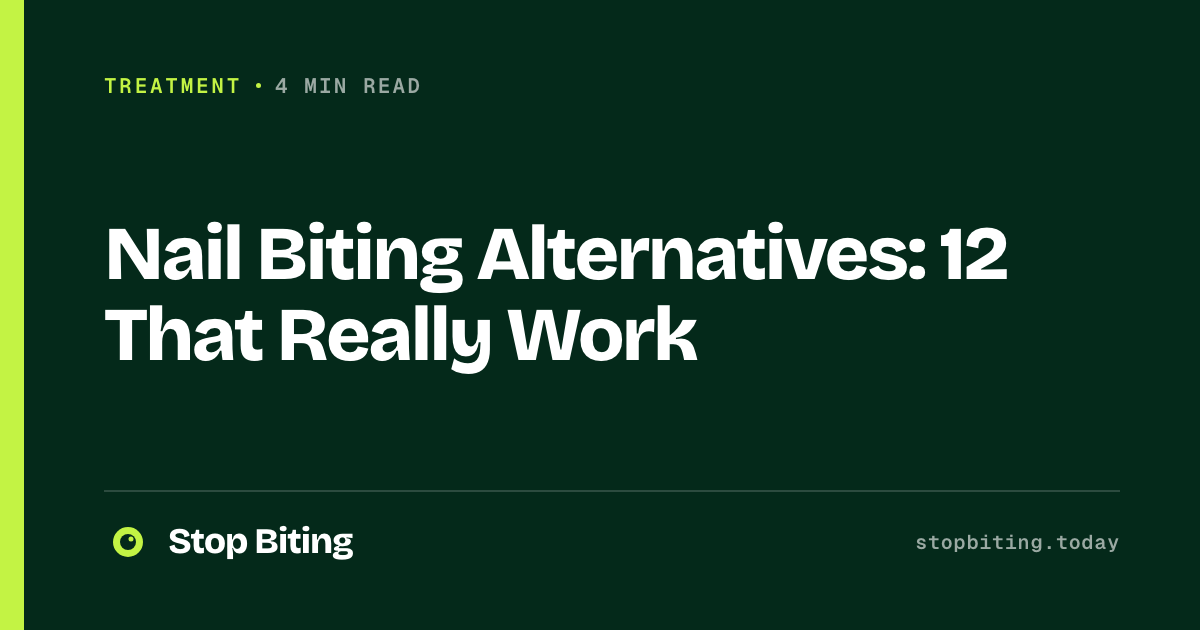
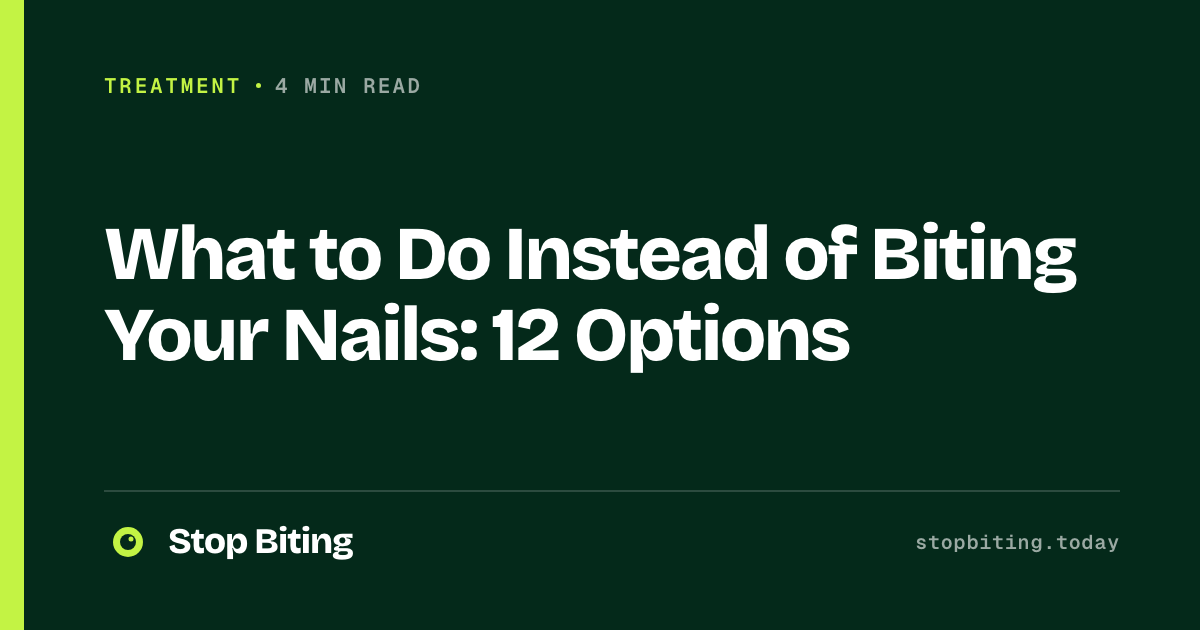
seo: regenerate blogIndex, llms.txt and three OG cards for the new snippets
Generated by seo:sync and og:generate; no hand edits. public/sitemap.xml and pageUpdates.json
are unchanged because no dateModified moved.

Changed region(s): [[0.0925, 0.3317, 0.8942, 0.6032]]

diff --git a/src/data/blogIndex.ts b/src/data/blogIndex.ts
@@ -154,7 +154,7 @@ export const BLOG_INDEX: BlogPostMeta[] = [
   {
     slug: "webcam-privacy-nail-biting-app",
     title: "Is It Safe to Use a Webcam App to Stop Nail Biting? Privacy Explained",
-    description: "Webcam apps for nail biting raise fair privacy questions. See exactly what data is collected, how on-device AI works, and why no camera data is sent while it runs.",
+    description: "Webcam apps for nail biting raise fair privacy questions. See what data is collected, how on-device AI works, and why no camera data is sent while it runs.",
     tag: "Technology",
     readingMinutes: 3,
     datePublished: "2026-04-07",
@@ -271,7 +271,7 @@ export const BLOG_INDEX: BlogPostMeta[] = [
   {
     slug: "nail-biting-alternatives",
     title: "What to Do Instead of Biting Your Nails: 12 Evidence-Based Alternatives",
-    description: "Competing responses only work when they meet the same need as nail biting. 12 evidence-based alternatives that work, organized by the trigger they address.",
+    description: "Match the substitute to your trigger and to where you bite. 12 options by stress, focus and boredom biting, with what research does and does not show.",
     tag: "Treatment",
     readingMinutes: 4,
     datePublished: "2026-04-21",
@@ -316,7 +316,7 @@ export const BLOG_INDEX: BlogPostMeta[] = [
   {
     slug: "acrylics-to-stop-nail-biting",
     title: "Can Acrylic Nails Stop Nail Biting? What Actually Happens When You Get Extensions",
-    description: "Acrylic nails are one of the most popular ways to stop nail biting. What the evidence shows, when they work, when they don't, and what to pair them with.",
+    description: "Possibly: dermatology reviews say manicures can reduce biting in motivated patients, but no controlled trial has tested acrylics. When they help, what to add.",
     tag: "Treatment",
     readingMinutes: 6,
     datePublished: "2026-04-23",
@@ -730,7 +730,7 @@ export const BLOG_INDEX: BlogPostMeta[] = [
   {
     slug: "nail-biting-fingerprints",
     title: "Does Nail Biting Affect Your Fingerprints?",
-    description: "Ridges are templated in the dermis and regrow after surface wear, so ordinary biting leaves them intact. Only deep fingertip damage could alter them.",
+    description: "Usually not: ridges are set in the dermis and regrow after surface wear, so ordinary biting leaves them intact. Only deep fingertip damage could alter them.",
     tag: "Science",
     readingMinutes: 2,
     datePublished: "2026-07-16",
@@ -1252,7 +1252,7 @@ export const BLOG_INDEX: BlogPostMeta[] = [
   {
     slug: "nail-biting-detection-accuracy",
     title: "How Accurate Is AI Nail Biting Detection? A Straight Answer",
-    description: "Stop Biting uses fingertip-to-mouth proximity as a proxy for biting. How its settings work, where false alarms and missed episodes occur, and what is unmeasured.",
+    description: "Stop Biting uses fingertip-to-mouth proximity as a proxy for biting. How its settings work, where false alarms and misses occur, and what is unmeasured.",
     tag: "Technology",
     readingMinutes: 3,
     datePublished: "2026-07-24",
